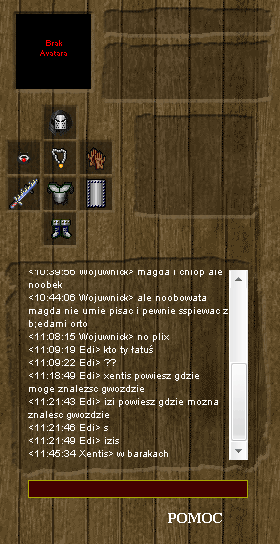
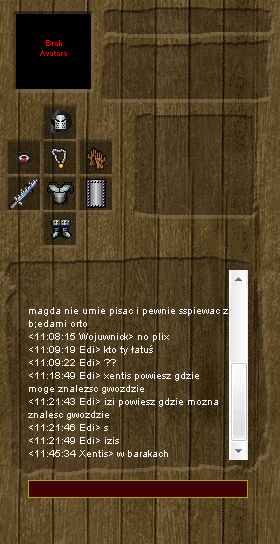
Dodano skrypt

diff --git a/Margonem 2006 Interface-1.0.user.js b/Margonem 2006 Interface-1.0.user.js
@@ -1,0 +1,109 @@
+// ==UserScript==
+// @name         Margonem 2006 Interface
+// @namespace    http://tampermonkey.net/
+// @version      1.0
+// @description  Podmienia grafiki na te z 2006 roku. :D
+// @author       Lambo
+// @match        https://world-legacy.margatron.ovh/
+// @icon         https://www.google.com/s2/favicons?sz=64&domain=margatron.ovh
+// @grant        none
+// ==/UserScript==
+
+(function() {
+    'use strict';
+
+    const oldPanel = "https://pjsoftwaredeveloper.github.io/PrivateStash/panel.png";
+    const oldBottomBar = 'https://pjsoftwaredeveloper.github.io/PrivateStash/bottombar.png';
+    const linkCSS = 'https://pjsoftwaredeveloper.github.io/PrivateStash/lamboStyles.css';
+
+
+    function injectExternalCSS() {
+        const link = document.createElement('link');
+        link.rel = 'stylesheet';
+        link.href = linkCSS;
+        document.head.appendChild(link);
+        console.log('External CSS loaded:', linkCSS);
+    }
+
+
+    function waitForStatsContainer(callback) {
+        const check = setInterval(() => {
+            const container = document.querySelector('div.container[data-v-1ceaa76c][data-v-3865c13a]');
+            if (container) {
+                clearInterval(check);
+                callback(container);
+            }
+        }, 50);
+    }
+
+    function observeStats(container) {
+        const observer = new MutationObserver(() => {
+            const divs = [...container.querySelectorAll('div[data-v-1ceaa76c]')];
+            if (divs.length !== 3) return;
+
+            const values = divs.map(d => d.innerText.trim());
+
+            // jeśli Vue już wstawił liczby → działamy
+            if (values.every(v => v !== "")) {
+                console.log("[stats] Załadowane:", values);
+                updateStats(values);
+                observer.disconnect();
+            }
+        });
+
+        observer.observe(container, {
+            childList: true,
+            subtree: true,
+            characterData: true
+        });
+    }
+
+    function updateStats(values) {
+        const container = document.querySelector('div.container[data-v-1ceaa76c][data-v-3865c13a]');
+        const containerGold = document.querySelector('span[data-v-27e581d9][data-color]');
+        if (!container) return;
+
+        const gold = containerGold.innerText.trim();
+        const [str, dex, intl] = values;
+
+        containerGold.innerHTML = `<div style="text-align: center; color: gold;">Złoto: ${gold}</div>`;
+        container.innerHTML = `
+            <div style="text-align: center;">
+                Siła: ${str}
+                Zręcz.: ${dex}
+                Intel.: ${intl}
+            </div>
+        `;
+    }
+
+
+    function oldInterface() {
+        const panel = document.getElementById("panel");
+        if (panel) {
+            panel.style.backgroundImage = `url(${oldPanel})`;
+            panel.style.backgroundSize = 'cover';
+            panel.style.backgroundRepeat = 'no-repeat';
+            console.log('Tło bottom bar zostało podmienione.');
+        } else {
+            console.log('Nie znaleziono elementu div.bottom-bar.');
+        }
+        const bbar = document.querySelector('div.bottom-bar');
+        if (bbar) {
+            bbar.style.backgroundImage = `url(${oldBottomBar})`;
+            bbar.style.backgroundSize = 'cover';
+            bbar.style.backgroundRepeat = 'no-repeat';
+            console.log('Tło bottom bar zostało podmienione.');
+        } else {
+            console.log('Nie znaleziono elementu div.bottom-bar.');
+        }
+    }
+
+    // Poczekaj aż strona się załaduje
+    window.addEventListener('load', () => {
+        oldInterface();
+        injectExternalCSS();
+        waitForStatsContainer(container => {
+            observeStats(container);
+        });
+    });
+})();